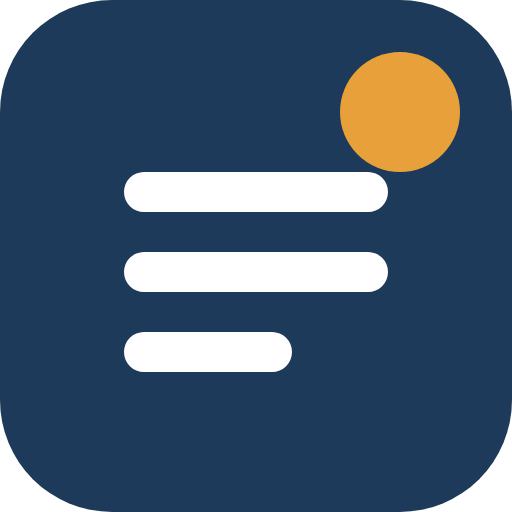
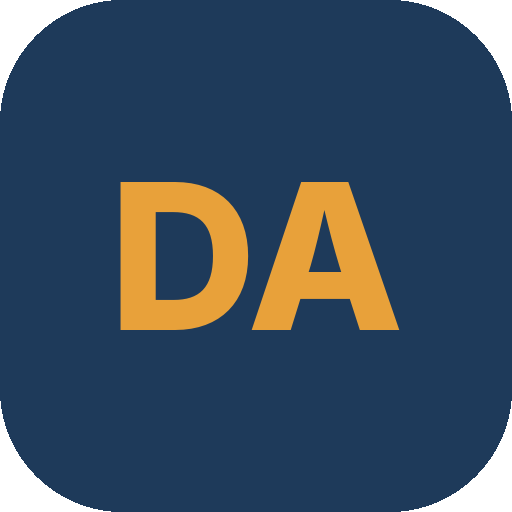
로고를 DA·정리 워드마크로 교체
헤더, 파비콘, 앱 아이콘(192/512/maskable), 애플 터치 아이콘, OG 이미지를
남색 바탕 + 호박색 "DA" 아이콘과 "DA·정리" 워드마크(DA 호박색, 정리 남색)로
교체. 기존 문서 아이콘 로고는 모두 제거.

Claude-Session: https://claude.ai/code/session_015BC4FBCQwBgozc1f9mAdpn

diff --git a/src/styles/global.css b/src/styles/global.css
@@ -65,6 +65,10 @@ header.site .bar { display: flex; align-items: center; gap: 26px; min-height: 72
 .mark { font-weight: 800; font-size: 24px; letter-spacing: -0.04em; color: var(--green); text-decoration: none; display: inline-flex; align-items: center; gap: 9px; }
 .mark svg { width: 30px; height: 30px; flex: none; }
 .mark:hover { color: var(--green); }
+.mark-text { display: inline-flex; align-items: baseline; }
+.mark-da { color: var(--amber); }
+.mark-dot { color: var(--green); margin: 0 0.06em; }
+.mark-kr { color: var(--green); }
 header.site .top-nav { display: flex; gap: 2px; flex: 1; }
 header.site .top-nav a { text-decoration: none; color: var(--ink-soft); padding: 8px 13px; border-radius: 10px; font-size: 17px; font-weight: 600; }
 header.site .top-nav a:hover { background: var(--navy-t); color: var(--green); }
